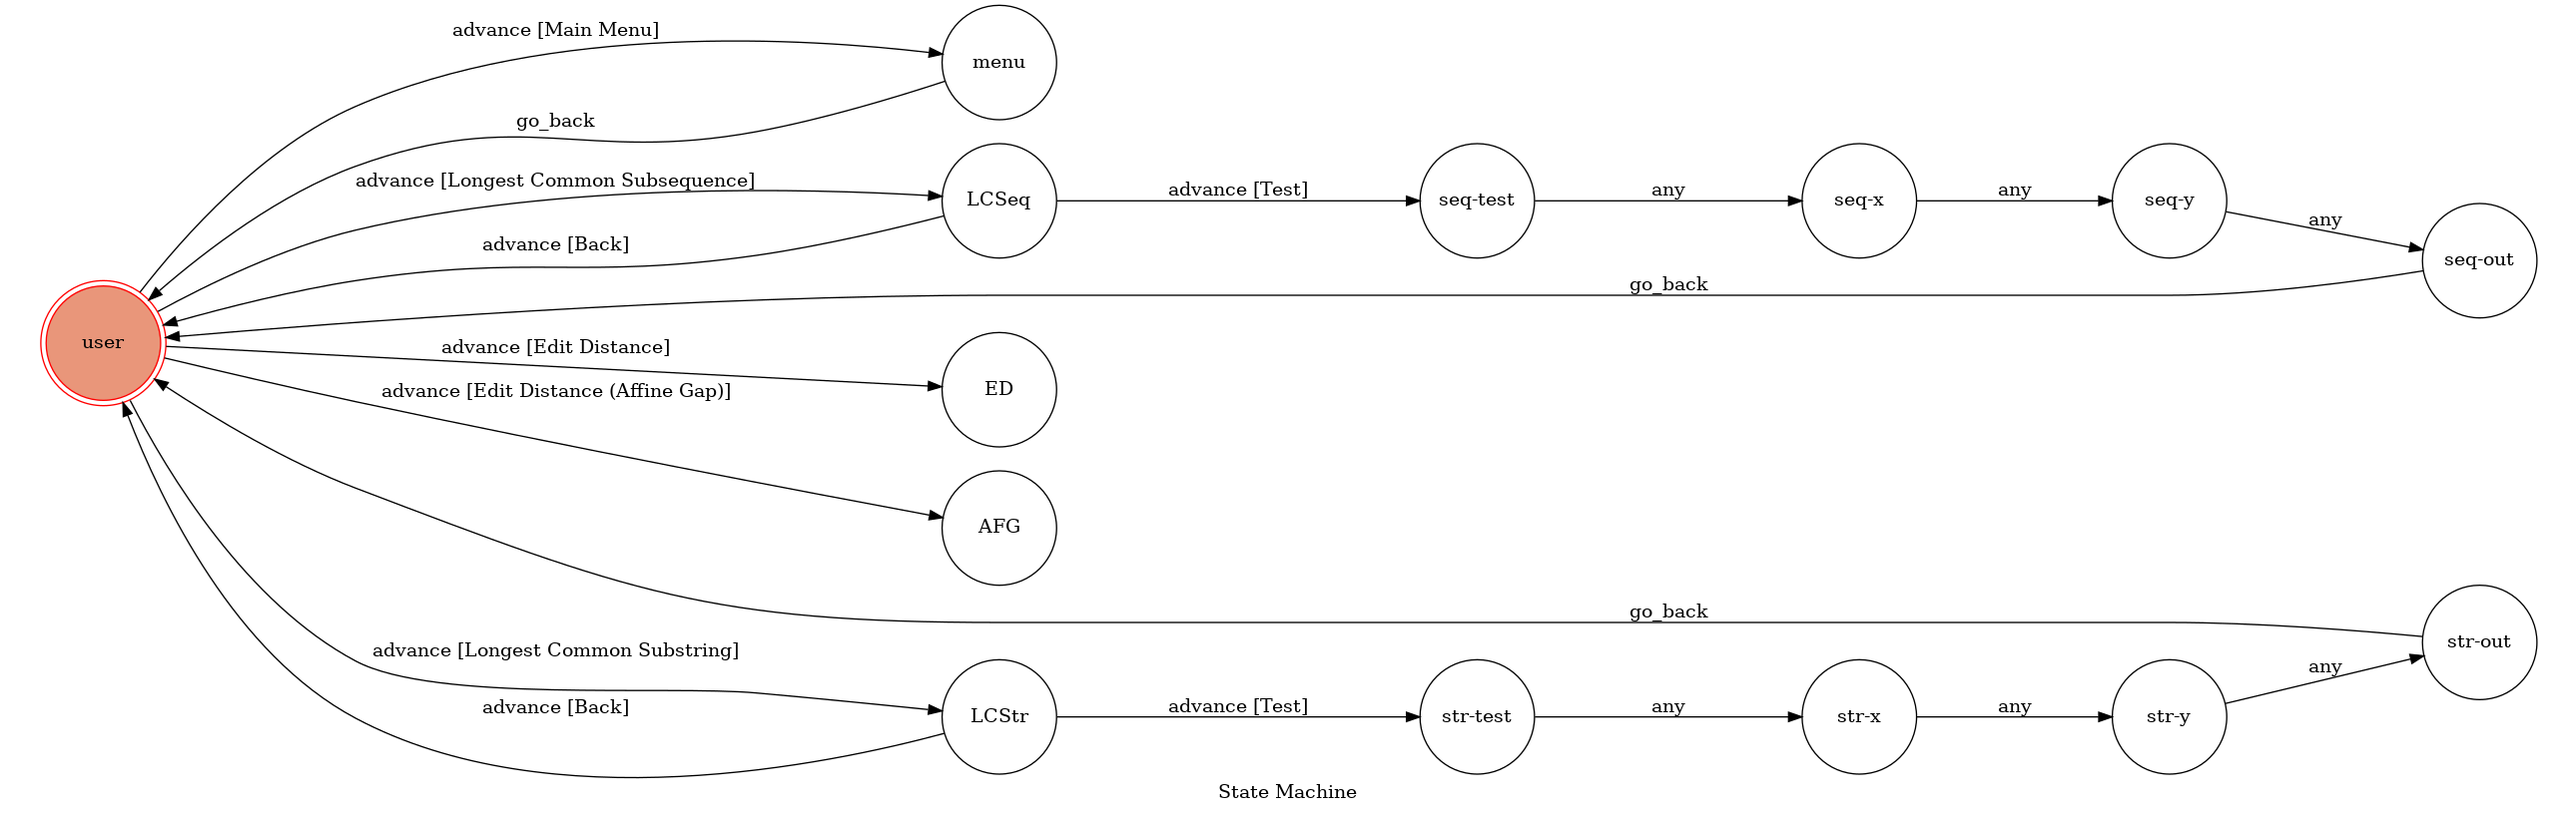
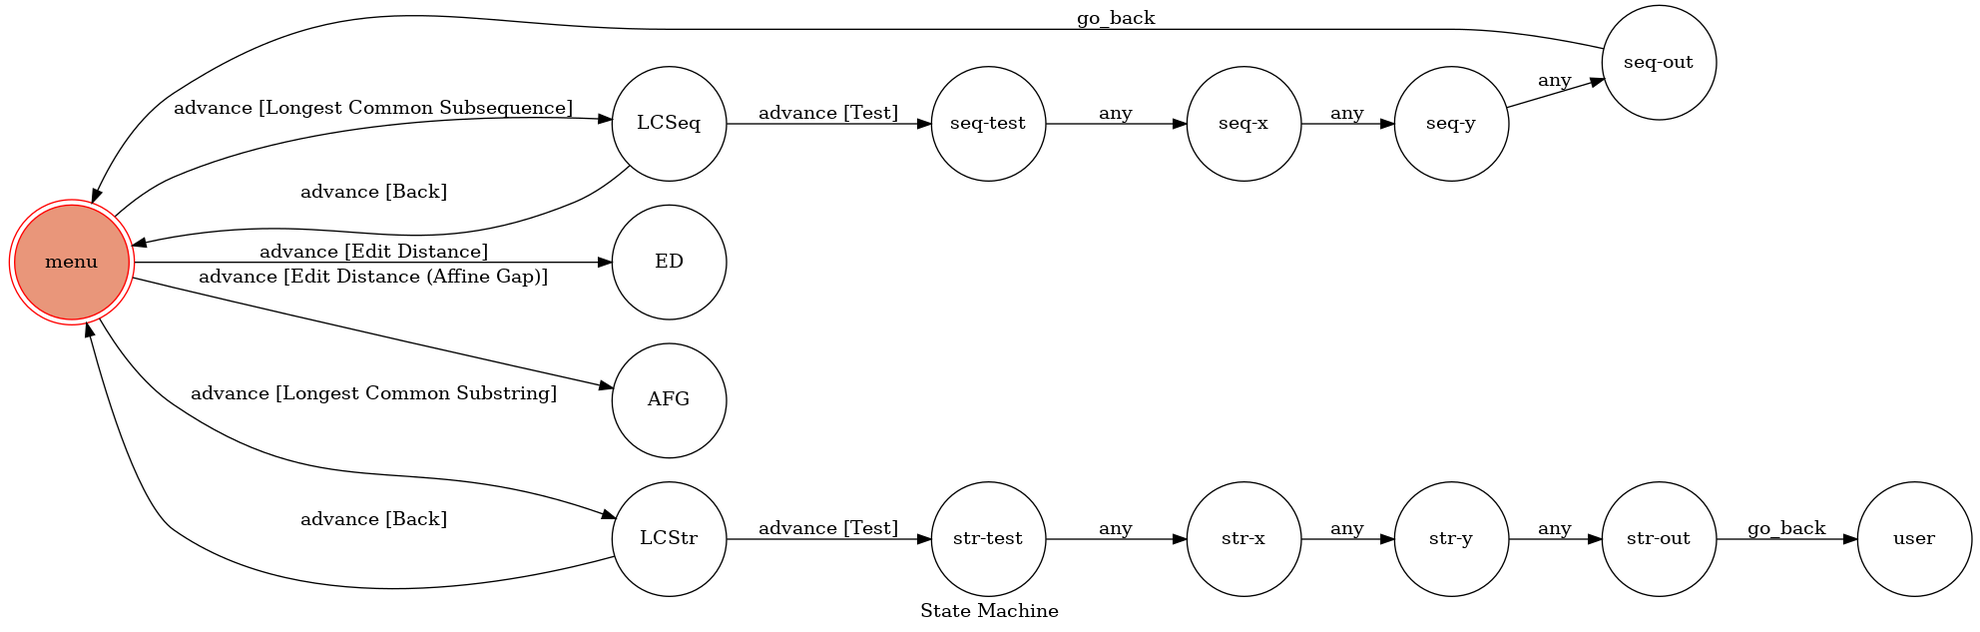
123

diff --git a/draw.py b/draw.py
@@ -3,7 +3,7 @@ from utils import check_get
 
 from transitions.extensions.diagrams import GraphMachine
 
-with open("jsons/FSM.json","r") as f:
+with open("FSM.json","r") as f:
     m=json.load(f)
 
 m2={}
@@ -41,3 +41,5 @@ machine = GraphMachine(
     auto_transitions=False,
     show_conditions=True,
 )
+
+machine.get_graph().draw("fsm.png", prog="dot", format="png")

diff --git a/app.py b/app.py
@@ -102,7 +102,7 @@ def hello():
 
 import json
 if __name__ == "__main__":
-    with open("jsons/FSM.json","r") as f:
+    with open("FSM.json","r") as f:
         machine=myFSM(json.load(f))
     port = int(os.environ.get('PORT', 5000))
     app.run(host='0.0.0.0', port=port)
